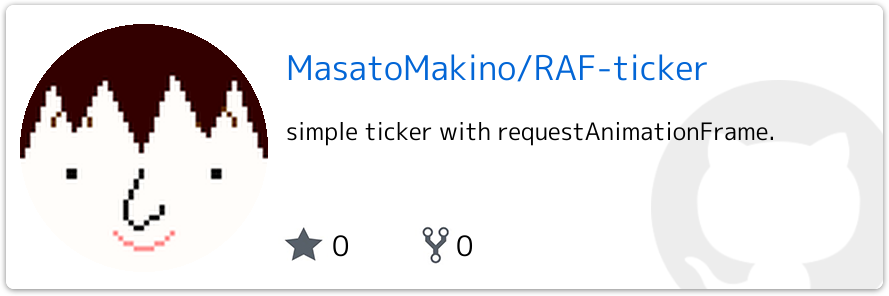
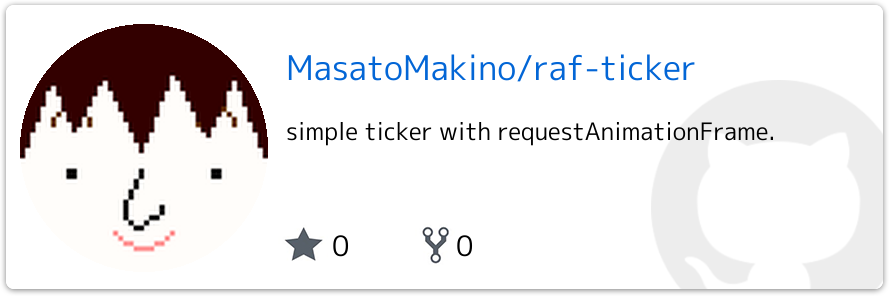
update : docs and bim

Changed region(s): [[0.5771, 0.1824, 0.7897, 0.2736]]

diff --git a/docs/api/classes/rafticker.html b/docs/api/classes/rafticker.html
@@ -107,7 +107,7 @@
 					<div class="tsd-signature tsd-kind-icon">_dispatcher<span class="tsd-signature-symbol">:</span> <a href="eventdispatcher.html" class="tsd-signature-type">EventDispatcher</a></div>
 					<aside class="tsd-sources">
 						<ul>
-							<li>Defined in RAFTicker.ts:5</li>
+							<li>Defined in <a href="https://github.com/MasatoMakino/raf-ticker/blob/6190297/src/RAFTicker.ts#L5">RAFTicker.ts:5</a></li>
 						</ul>
 					</aside>
 				</section>
@@ -117,7 +117,7 @@
 					<div class="tsd-signature tsd-kind-icon">_id<span class="tsd-signature-symbol">:</span> <span class="tsd-signature-type">number</span></div>
 					<aside class="tsd-sources">
 						<ul>
-							<li>Defined in RAFTicker.ts:7</li>
+							<li>Defined in <a href="https://github.com/MasatoMakino/raf-ticker/blob/6190297/src/RAFTicker.ts#L7">RAFTicker.ts:7</a></li>
 						</ul>
 					</aside>
 				</section>
@@ -127,7 +127,7 @@
 					<div class="tsd-signature tsd-kind-icon">_last<wbr>Update<wbr>Timestamp<span class="tsd-signature-symbol">:</span> <span class="tsd-signature-type">number</span></div>
 					<aside class="tsd-sources">
 						<ul>
-							<li>Defined in RAFTicker.ts:6</li>
+							<li>Defined in <a href="https://github.com/MasatoMakino/raf-ticker/blob/6190297/src/RAFTicker.ts#L6">RAFTicker.ts:6</a></li>
 						</ul>
 					</aside>
 				</section>
@@ -144,7 +144,7 @@
 						<li class="tsd-description">
 							<aside class="tsd-sources">
 								<ul>
-									<li>Defined in RAFTicker.ts:14</li>
+									<li>Defined in <a href="https://github.com/MasatoMakino/raf-ticker/blob/6190297/src/RAFTicker.ts#L14">RAFTicker.ts:14</a></li>
 								</ul>
 							</aside>
 							<h4 class="tsd-parameters-title">Parameters</h4>
@@ -157,14 +157,14 @@
 									<ul class="tsd-parameters">
 										<li class="tsd-parameter-siganture">
 											<ul class="tsd-signatures tsd-kind-type-literal tsd-is-not-exported">
-												<li class="tsd-signature tsd-kind-icon"><span class="tsd-signature-symbol">(</span>event<span class="tsd-signature-symbol">: </span><span class="tsd-signature-type">Event</span><span class="tsd-signature-symbol">)</span><span class="tsd-signature-symbol">: </span><span class="tsd-signature-type">void</span></li>
+												<li class="tsd-signature tsd-kind-icon"><span class="tsd-signature-symbol">(</span>event<span class="tsd-signature-symbol">: </span><a href="raftickerevent.html" class="tsd-signature-type">RAFTickerEvent</a><span class="tsd-signature-symbol">)</span><span class="tsd-signature-symbol">: </span><span class="tsd-signature-type">void</span></li>
 											</ul>
 											<ul class="tsd-descriptions">
 												<li class="tsd-description">
 													<h4 class="tsd-parameters-title">Parameters</h4>
 													<ul class="tsd-parameters">
 														<li>
-															<h5>event: <span class="tsd-signature-type">Event</span></h5>
+															<h5>event: <a href="raftickerevent.html" class="tsd-signature-type">RAFTickerEvent</a></h5>
 														</li>
 													</ul>
 													<h4 class="tsd-returns-title">Returns <span class="tsd-signature-type">void</span></h4>
@@ -188,7 +188,7 @@
 						<li class="tsd-description">
 							<aside class="tsd-sources">
 								<ul>
-									<li>Defined in RAFTicker.ts:21</li>
+									<li>Defined in <a href="https://github.com/MasatoMakino/raf-ticker/blob/6190297/src/RAFTicker.ts#L21">RAFTicker.ts:21</a></li>
 								</ul>
 							</aside>
 							<h4 class="tsd-parameters-title">Parameters</h4>
@@ -201,14 +201,14 @@
 									<ul class="tsd-parameters">
 										<li class="tsd-parameter-siganture">
 											<ul class="tsd-signatures tsd-kind-type-literal tsd-is-not-exported">
-												<li class="tsd-signature tsd-kind-icon"><span class="tsd-signature-symbol">(</span>event<span class="tsd-signature-symbol">: </span><span class="tsd-signature-type">Event</span><span class="tsd-signature-symbol">)</span><span class="tsd-signature-symbol">: </span><span class="tsd-signature-type">void</span></li>
+												<li class="tsd-signature tsd-kind-icon"><span class="tsd-signature-symbol">(</span>event<span class="tsd-signature-symbol">: </span><a href="raftickerevent.html" class="tsd-signature-type">RAFTickerEvent</a><span class="tsd-signature-symbol">)</span><span class="tsd-signature-symbol">: </span><span class="tsd-signature-type">void</span></li>
 											</ul>
 											<ul class="tsd-descriptions">
 												<li class="tsd-description">
 													<h4 class="tsd-parameters-title">Parameters</h4>
 													<ul class="tsd-parameters">
 														<li>
-															<h5>event: <span class="tsd-signature-type">Event</span></h5>
+															<h5>event: <a href="raftickerevent.html" class="tsd-signature-type">RAFTickerEvent</a></h5>
 														</li>
 													</ul>
 													<h4 class="tsd-returns-title">Returns <span class="tsd-signature-type">void</span></h4>
@@ -232,7 +232,7 @@
 						<li class="tsd-description">
 							<aside class="tsd-sources">
 								<ul>
-									<li>Defined in RAFTicker.ts:9</li>
+									<li>Defined in <a href="https://github.com/MasatoMakino/raf-ticker/blob/6190297/src/RAFTicker.ts#L9">RAFTicker.ts:9</a></li>
 								</ul>
 							</aside>
 							<h4 class="tsd-returns-title">Returns <span class="tsd-signature-type">void</span></h4>
@@ -249,7 +249,7 @@
 						<li class="tsd-description">
 							<aside class="tsd-sources">
 								<ul>
-									<li>Defined in RAFTicker.ts:35</li>
+									<li>Defined in <a href="https://github.com/MasatoMakino/raf-ticker/blob/6190297/src/RAFTicker.ts#L35">RAFTicker.ts:35</a></li>
 								</ul>
 							</aside>
 							<h4 class="tsd-parameters-title">Parameters</h4>
@@ -272,7 +272,7 @@
 						<li class="tsd-description">
 							<aside class="tsd-sources">
 								<ul>
-									<li>Defined in RAFTicker.ts:28</li>
+									<li>Defined in <a href="https://github.com/MasatoMakino/raf-ticker/blob/6190297/src/RAFTicker.ts#L28">RAFTicker.ts:28</a></li>
 								</ul>
 							</aside>
 							<h4 class="tsd-parameters-title">Parameters</h4>
@@ -285,14 +285,14 @@
 									<ul class="tsd-parameters">
 										<li class="tsd-parameter-siganture">
 											<ul class="tsd-signatures tsd-kind-type-literal tsd-is-not-exported">
-												<li class="tsd-signature tsd-kind-icon"><span class="tsd-signature-symbol">(</span>event<span class="tsd-signature-symbol">: </span><span class="tsd-signature-type">Event</span><span class="tsd-signature-symbol">)</span><span class="tsd-signature-symbol">: </span><span class="tsd-signature-type">void</span></li>
+												<li class="tsd-signature tsd-kind-icon"><span class="tsd-signature-symbol">(</span>event<span class="tsd-signature-symbol">: </span><a href="raftickerevent.html" class="tsd-signature-type">RAFTickerEvent</a><span class="tsd-signature-symbol">)</span><span class="tsd-signature-symbol">: </span><span class="tsd-signature-type">void</span></li>
 											</ul>
 											<ul class="tsd-descriptions">
 												<li class="tsd-description">
 													<h4 class="tsd-parameters-title">Parameters</h4>
 													<ul class="tsd-parameters">
 														<li>
-															<h5>event: <span class="tsd-signature-type">Event</span></h5>
+															<h5>event: <a href="raftickerevent.html" class="tsd-signature-type">RAFTickerEvent</a></h5>
 														</li>
 													</ul>
 													<h4 class="tsd-returns-title">Returns <span class="tsd-signature-type">void</span></h4>

diff --git a/docs/api/classes/eventdispatcher.html b/docs/api/classes/eventdispatcher.html
@@ -114,7 +114,7 @@
 					<div class="tsd-signature tsd-kind-icon">_listeners<span class="tsd-signature-symbol">:</span> <span class="tsd-signature-type">any</span></div>
 					<aside class="tsd-sources">
 						<ul>
-							<li>Defined in <a href="https://github.com/MasatoMakino/RAF-ticker/blob/76f460c/src/EventDispatcher.ts#L8">EventDispatcher.ts:8</a></li>
+							<li>Defined in <a href="https://github.com/MasatoMakino/raf-ticker/blob/6190297/src/EventDispatcher.ts#L8">EventDispatcher.ts:8</a></li>
 						</ul>
 					</aside>
 				</section>
@@ -131,7 +131,7 @@
 						<li class="tsd-description">
 							<aside class="tsd-sources">
 								<ul>
-									<li>Defined in <a href="https://github.com/MasatoMakino/RAF-ticker/blob/76f460c/src/EventDispatcher.ts#L10">EventDispatcher.ts:10</a></li>
+									<li>Defined in <a href="https://github.com/MasatoMakino/raf-ticker/blob/6190297/src/EventDispatcher.ts#L10">EventDispatcher.ts:10</a></li>
 								</ul>
 							</aside>
 							<h4 class="tsd-parameters-title">Parameters</h4>
@@ -157,7 +157,7 @@
 						<li class="tsd-description">
 							<aside class="tsd-sources">
 								<ul>
-									<li>Defined in <a href="https://github.com/MasatoMakino/RAF-ticker/blob/76f460c/src/EventDispatcher.ts#L48">EventDispatcher.ts:48</a></li>
+									<li>Defined in <a href="https://github.com/MasatoMakino/raf-ticker/blob/6190297/src/EventDispatcher.ts#L48">EventDispatcher.ts:48</a></li>
 								</ul>
 							</aside>
 							<h4 class="tsd-parameters-title">Parameters</h4>
@@ -180,7 +180,7 @@
 						<li class="tsd-description">
 							<aside class="tsd-sources">
 								<ul>
-									<li>Defined in <a href="https://github.com/MasatoMakino/RAF-ticker/blob/76f460c/src/EventDispatcher.ts#L24">EventDispatcher.ts:24</a></li>
+									<li>Defined in <a href="https://github.com/MasatoMakino/raf-ticker/blob/6190297/src/EventDispatcher.ts#L24">EventDispatcher.ts:24</a></li>
 								</ul>
 							</aside>
 							<h4 class="tsd-parameters-title">Parameters</h4>
@@ -206,7 +206,7 @@
 						<li class="tsd-description">
 							<aside class="tsd-sources">
 								<ul>
-									<li>Defined in <a href="https://github.com/MasatoMakino/RAF-ticker/blob/76f460c/src/EventDispatcher.ts#L33">EventDispatcher.ts:33</a></li>
+									<li>Defined in <a href="https://github.com/MasatoMakino/raf-ticker/blob/6190297/src/EventDispatcher.ts#L33">EventDispatcher.ts:33</a></li>
 								</ul>
 							</aside>
 							<h4 class="tsd-parameters-title">Parameters</h4>

diff --git a/docs/api/classes/raftickerevent.html b/docs/api/classes/raftickerevent.html
@@ -107,7 +107,7 @@
 						<li class="tsd-description">
 							<aside class="tsd-sources">
 								<ul>
-									<li>Defined in RAFTickerEvent.ts:10</li>
+									<li>Defined in <a href="https://github.com/MasatoMakino/raf-ticker/blob/6190297/src/RAFTickerEvent.ts#L10">RAFTickerEvent.ts:10</a></li>
 								</ul>
 							</aside>
 							<h4 class="tsd-parameters-title">Parameters</h4>
@@ -135,7 +135,7 @@
 					<div class="tsd-signature tsd-kind-icon">delta<span class="tsd-signature-symbol">:</span> <span class="tsd-signature-type">number</span></div>
 					<aside class="tsd-sources">
 						<ul>
-							<li>Defined in RAFTickerEvent.ts:9</li>
+							<li>Defined in <a href="https://github.com/MasatoMakino/raf-ticker/blob/6190297/src/RAFTickerEvent.ts#L9">RAFTickerEvent.ts:9</a></li>
 						</ul>
 					</aside>
 				</section>
@@ -145,7 +145,7 @@
 					<div class="tsd-signature tsd-kind-icon">timestamp<span class="tsd-signature-symbol">:</span> <span class="tsd-signature-type">number</span></div>
 					<aside class="tsd-sources">
 						<ul>
-							<li>Defined in RAFTickerEvent.ts:10</li>
+							<li>Defined in <a href="https://github.com/MasatoMakino/raf-ticker/blob/6190297/src/RAFTickerEvent.ts#L10">RAFTickerEvent.ts:10</a></li>
 						</ul>
 					</aside>
 				</section>
@@ -155,7 +155,7 @@
 					<div class="tsd-signature tsd-kind-icon">type<span class="tsd-signature-symbol">:</span> <a href="../enums/raftickereventtype.html" class="tsd-signature-type">RAFTickerEventType</a></div>
 					<aside class="tsd-sources">
 						<ul>
-							<li>Defined in RAFTickerEvent.ts:8</li>
+							<li>Defined in <a href="https://github.com/MasatoMakino/raf-ticker/blob/6190297/src/RAFTickerEvent.ts#L8">RAFTickerEvent.ts:8</a></li>
 						</ul>
 					</aside>
 				</section>

diff --git a/docs/api/enums/raftickereventtype.html b/docs/api/enums/raftickereventtype.html
@@ -89,7 +89,7 @@
 					<div class="tsd-signature tsd-kind-icon">on<wbr>After<wbr>Tick<span class="tsd-signature-symbol">:</span> <span class="tsd-signature-symbol"> =&nbsp;&quot;onAfterTick&quot;</span></div>
 					<aside class="tsd-sources">
 						<ul>
-							<li>Defined in RAFTickerEvent.ts:4</li>
+							<li>Defined in <a href="https://github.com/MasatoMakino/raf-ticker/blob/6190297/src/RAFTickerEvent.ts#L4">RAFTickerEvent.ts:4</a></li>
 						</ul>
 					</aside>
 				</section>
@@ -99,7 +99,7 @@
 					<div class="tsd-signature tsd-kind-icon">on<wbr>Before<wbr>Tick<span class="tsd-signature-symbol">:</span> <span class="tsd-signature-symbol"> =&nbsp;&quot;onBeforeTick&quot;</span></div>
 					<aside class="tsd-sources">
 						<ul>
-							<li>Defined in RAFTickerEvent.ts:2</li>
+							<li>Defined in <a href="https://github.com/MasatoMakino/raf-ticker/blob/6190297/src/RAFTickerEvent.ts#L2">RAFTickerEvent.ts:2</a></li>
 						</ul>
 					</aside>
 				</section>
@@ -109,7 +109,7 @@
 					<div class="tsd-signature tsd-kind-icon">tick<span class="tsd-signature-symbol">:</span> <span class="tsd-signature-symbol"> =&nbsp;&quot;tick&quot;</span></div>
 					<aside class="tsd-sources">
 						<ul>
-							<li>Defined in RAFTickerEvent.ts:3</li>
+							<li>Defined in <a href="https://github.com/MasatoMakino/raf-ticker/blob/6190297/src/RAFTickerEvent.ts#L3">RAFTickerEvent.ts:3</a></li>
 						</ul>
 					</aside>
 				</section>

diff --git a/bin/RAFTicker.d.ts b/bin/RAFTicker.d.ts
@@ -1,11 +1,12 @@
+import { RAFTickerEvent } from "./RAFTickerEvent";
 export declare class RAFTicker {
     private static _dispatcher;
     private static _lastUpdateTimestamp;
     protected static _id: number;
     static initialize(): void;
-    static addEventListener(type: string, listener: (event: Event) => void): void;
-    static hasEventListener(type: string, listener: (event: Event) => void): boolean;
-    static removeEventListener(type: string, listener: (event: Event) => void): void;
+    static addEventListener(type: string, listener: (event: RAFTickerEvent) => void): void;
+    static hasEventListener(type: string, listener: (event: RAFTickerEvent) => void): boolean;
+    static removeEventListener(type: string, listener: (event: RAFTickerEvent) => void): void;
     private static onTick;
 }
 //# sourceMappingURL=RAFTicker.d.ts.map
